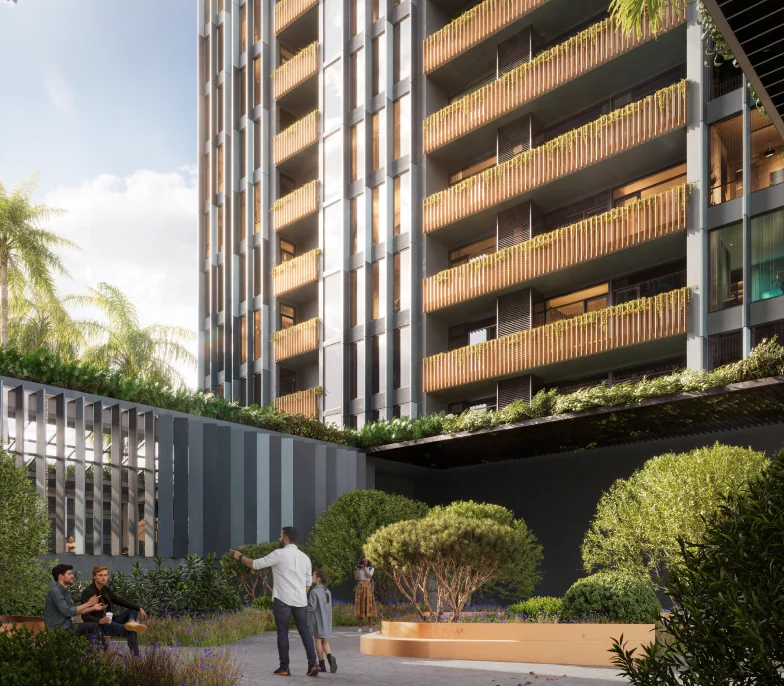
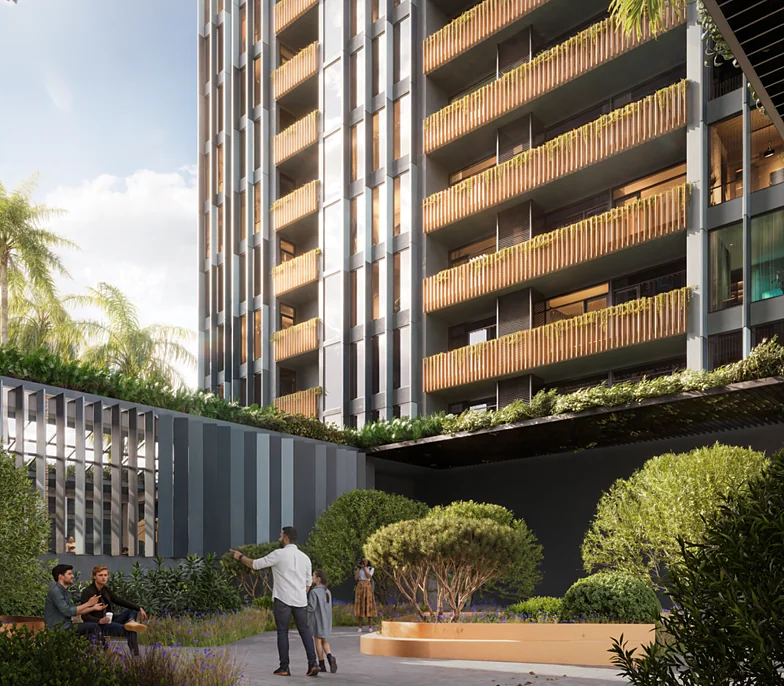
Serve sharper 2x and 3x versions of the Advantage and Broker Access pictures
The four pictures from Lasha's frames are upscaled 4x with EDSR super-resolution
(no retouching) and served at 1x, 2x and 3x so they stay sharp on Retina screens.

Claude-Session: https://claude.ai/code/session_011nnJnVbrPw2DuWtUoqNpkn

diff --git a/src/components/LashaNetworkPages.jsx b/src/components/LashaNetworkPages.jsx
@@ -12,6 +12,9 @@ import "./lasha-network-pages.css";
 // are not copied. Headlines keep the site's AIXCO v4 faces.
 
 const image = (name) => `/assets/projects/${name}.webp`;
+// Lasha's renders come out of Figma at 1x; each is upscaled 4x (EDSR super-resolution, no
+// retouching) and served at 1x, 2x and 3x so they stay sharp on Retina screens.
+const srcSet = (name, width) => [1, 2, 3].map((scale) => `${image(`${name}-${width * scale}`)} ${width * scale}w`).join(", ");
 const noStop = (text) => text.replace(/[.。]$/, "");
 const sentenceCase = (text, locale) => {
   const lower = text.toLocaleLowerCase(locale);
@@ -48,7 +51,7 @@ function SplitHero({ header, eyebrow, title, body, action, media, aside, classNa
         <p className="lnp-hero-body">{body}</p>
         {action}
       </div>
-      <div className="lnp-hero-media"><img src={image(media.src)} width={media.width} height={media.height} alt="" decoding="async" fetchPriority="high" /></div>
+      <div className="lnp-hero-media"><img src={image(`${media.src}-${media.width * 2}`)} srcSet={srcSet(media.src, media.width)} sizes={media.sizes} width={media.width} height={media.height} alt="" decoding="async" fetchPriority="high" /></div>
       {aside}
     </section>
   );
@@ -66,7 +69,7 @@ export function AdvantagePageContent({ header }) {
         title={network.hero}
         body={network.intro}
         action={<PageButton variant="dark" flow="register">{network.request}</PageButton>}
-        media={{ src: "reverance-courtyard-784", width: 784, height: 686 }}
+        media={{ src: "reverance-courtyard", width: 784, height: 686, sizes: "(max-width: 899px) 100vw, 55vw" }}
       />
 
       <section className="lnp-starting" aria-label={network.startingPointsTitle}>
@@ -84,7 +87,7 @@ export function AdvantagePageContent({ header }) {
       </section>
 
       <section className="lnp-advantage-split" aria-labelledby="lnp-advantage-title">
-        <img className="lnp-advantage-media" src={image("reverance-terrace-656")} width="656" height="679" alt="" loading="lazy" decoding="async" />
+        <img className="lnp-advantage-media" src={image("reverance-terrace-1312")} srcSet={srcSet("reverance-terrace", 656)} sizes="(max-width: 899px) 100vw, 46vw" width="656" height="679" alt="" loading="lazy" decoding="async" />
         <div className="lnp-advantage-panel">
           <p className="lnp-kicker">{network.advantage[0]}</p>
           <FittedHeading id="lnp-advantage-title" className="lnp-advantage-title">{splitBeforeLast(network.advantage[1]).map((line) => <span key={line}>{line}</span>)}</FittedHeading>
@@ -120,7 +123,7 @@ export function BrokerAccessPageContent({ header }) {
         eyebrow={home.aboutEyebrow}
         title={splitBrokerTitle(network.eligibility[1])}
         body={page.brokerIntro}
-        media={{ src: "broker-lounge-474", width: 474, height: 843 }}
+        media={{ src: "broker-lounge", width: 474, height: 843, sizes: "(max-width: 899px) 100vw, 27vw" }}
         aside={
           <ol className="lnp-people">
             {people.map(([title, line], index) => (
@@ -152,7 +155,7 @@ export function BrokerAccessPageContent({ header }) {
           <p className="lnp-figure">100%</p>
           <FittedHeading>{page.commissionUnlocked.map((line) => <span key={line}>{line}</span>)}</FittedHeading>
         </div>
-        <img className="lnp-commercial-media" src={image("reverance-tower-995")} width="995" height="589" alt="" loading="lazy" decoding="async" />
+        <img className="lnp-commercial-media" src={image("reverance-tower-1990")} srcSet={srcSet("reverance-tower", 995)} sizes="(max-width: 899px) 100vw, 42vw" width="995" height="589" alt="" loading="lazy" decoding="async" />
       </section>
 
       <section className="lnp-process" aria-labelledby="lnp-process-title">

diff --git a/AGENTS.md b/AGENTS.md
@@ -17,7 +17,7 @@ Before making substantial visual changes, use the Product Design plugin's `get-c
 - October 7 AIXCO v4 type sizes (Kemo: "titles and fonts should match to axco v4 website size of fonts etc... rest can stay same"; he wanted only the hero title from v4's hero, not its "PEOPLE SHAPE PLACES" / "+137%" column): every public page sets titles and text at v4's sizes from the `--v4-*` tokens at the top of `src/components/lasha-home.css`, each naming the v4 class it copies (section titles `.v2-h2`, page hero titles `.v2-page-hero__title`, with v4's smaller sizes for DE/PL/SL/RU; cards `.v4-h3-xl`; metric strip, Batumi figures, about points and starting-point cards their v4 counterparts; lead/body text, eyebrows, labels, buttons and navigation as v4). Layout, colours, copy and the AIXESS / TO MARKET hero lettering stay as they were; in the scaled desktop frame a token is capped by its old frame size only where a fixed column must still fit (metric values and tagline, access count label). The residence floor modal, the mobile explorer and admin keep their own sizes. Copy only the part of a v4 reference Kemo names, and ask before restyling anything else.
 - October 8 time-of-day theme (Kemo: "add the same auto theme switcher as we have on aixco.global ... use exact colors and copy of that function"): copied from AIXCO.Global v4 (`src/components/v4/TimeTheme.tsx`, `time-theme-boot.ts`, the time-of-day block in `v4.css`). Day 06–14h cobalt, afternoon 14–19h sage, night 19–06h graphite by the visitor's local time, with v4's header menu (Day / Afternoon / Night / Automatic) beside the language selector, or beside MENU on phones and tablets. `src/timeTheme.js` holds the logic, `index.html` sets `data-time-theme` before paint (keep the two in sync), and `src/components/time-theme.css` holds the colours. Day keeps Lasha's colours exactly; afternoon and night use v4's values: `--l-blue` (v4 `--v4-cobalt`) for accent ink and buttons, `--l-field` (`--v4-accent`) for the about panel and Advantage band with `--l-on-field` text, and `--l-blue-light` (`--v4-cobalt-light`) for accents on ink grounds. New blue accents must use these tokens, never a hard-coded #2557d6. Kemo (8 October, "doesn't switch colors of everything"): the pale grounds follow too, as tints of each theme: `--l-mist` (light bands), `--l-wash` / `--l-wash-page` (the soft wash over hero photos, used through `color-mix`) and `--l-sky` (the hero ground before its photo loads). The residence explorer and floor-plan chrome use `--orange`, which afternoon and night set to sage / cobalt-light (ink accent on the phone's light sheets); new explorer accents must use `var(--orange)`, never a hard-coded #f16510. Unchanged in every theme: photos, ink and paper grounds, availability status colours, the Golden Premium gold and the orange 3D floor highlight. www.aixco.global (v1) has no such switcher; v4 is the source.
 
-- October 9 Lasha inner pages (Kemo: "New page designs have been added to figma ... keep font same"): AiXESS Advantage and Broker Access follow Lasha's Figma frames (file mdoKe84QEOkpDthDFO8pyy, frames AIXESS ADVANTAGE 1440 × 1865 and BROKER ACCESS 1440 × 1800) in `src/components/LashaNetworkPages.jsx` and `lasha-network-pages.css`: split blue hero beside a render (and, on Broker Access, the five "who can join" rows), starting-points band, render beside the sage Advantage panel, 360° row; Have the network?, 10% / 100% commercial row and the five-step How it works. Copy is the frames' word for word (new lines in `src/lasha-pages-copy.js`, translated), with the frame typos ACCES, RECUEST, COMERCIAL and selectet not copied; the frames' duplicate lines (starting-point bodies, CONNECTORS repeating the sales line) are kept as drawn. Broker Access's second button reads PARTNER SIGN IN (the frame repeats REQUEST ACCESS). Fonts stay AIXCO v4; from 900px the layout scales in frame pixels like the homepage, below it restacks to one column. Images are Lasha's from the frame at 1x; swap in originals if Kemo supplies them. These supersede the October 6 Lasha-style rendering of those two pages.
+- October 9 Lasha inner pages (Kemo: "New page designs have been added to figma ... keep font same"): AiXESS Advantage and Broker Access follow Lasha's Figma frames (file mdoKe84QEOkpDthDFO8pyy, frames AIXESS ADVANTAGE 1440 × 1865 and BROKER ACCESS 1440 × 1800) in `src/components/LashaNetworkPages.jsx` and `lasha-network-pages.css`: split blue hero beside a render (and, on Broker Access, the five "who can join" rows), starting-points band, render beside the sage Advantage panel, 360° row; Have the network?, 10% / 100% commercial row and the five-step How it works. Copy is the frames' word for word (new lines in `src/lasha-pages-copy.js`, translated), with the frame typos ACCES, RECUEST, COMERCIAL and selectet not copied; the frames' duplicate lines (starting-point bodies, CONNECTORS repeating the sales line) are kept as drawn. Broker Access's second button reads PARTNER SIGN IN (the frame repeats REQUEST ACCESS). Fonts stay AIXCO v4; from 900px the layout scales in frame pixels like the homepage, below it restacks to one column. Images are Lasha's from the frame (Figma only exports them at 1x), upscaled 4x with EDSR super-resolution and served at 1x/2x/3x (Kemo, October 9: "higher quality same pictures ... dont change anything"); swap in originals if Kemo supplies them. These supersede the October 6 Lasha-style rendering of those two pages.
 
 - October 6 inner pages (Kemo: "make other pages similar in design"): AiXESS Advantage, Broker Access, Selected Opportunities, Insights, Broker Tools, Privacy, the cookie notice and the sign-up/login/materials dialogs use Lasha's homepage language via `src/components/lasha-pages.css` (`.lasha-page`): paper ground, ink and blue, condensed uppercase headlines, blue eyebrows with a hairline, square blue/ink buttons, and section grounds alternating paper, mist, blue and ink. Each page opens with `LashaPageHero` (the header floating over a Reverance render with an oversized headline); each page uses its own render (Kemo, October 7: not the same image everywhere): Advantage the sunset exterior (Kemo, October 8: the crown close-up was too soft; use the official 4096px render with an 800/1600/2400w srcset so it stays sharp on Retina), Broker Access the entrance, Selected Opportunities the front elevation, Insights the looking-up façade, Broker Tools the aerial and Privacy the skyline. The phone/tablet menu is a full-height ink panel with AiXESS Head links, a blue marker on the current page and square blue/outline Register/Login, never the old black/orange drawer. Lasha drew only the homepage, so inner pages reflow responsively in rem instead of scaling a frame. The admin dashboard keeps its own styling. This supersedes the black/silver/orange mockup for public pages.
 
